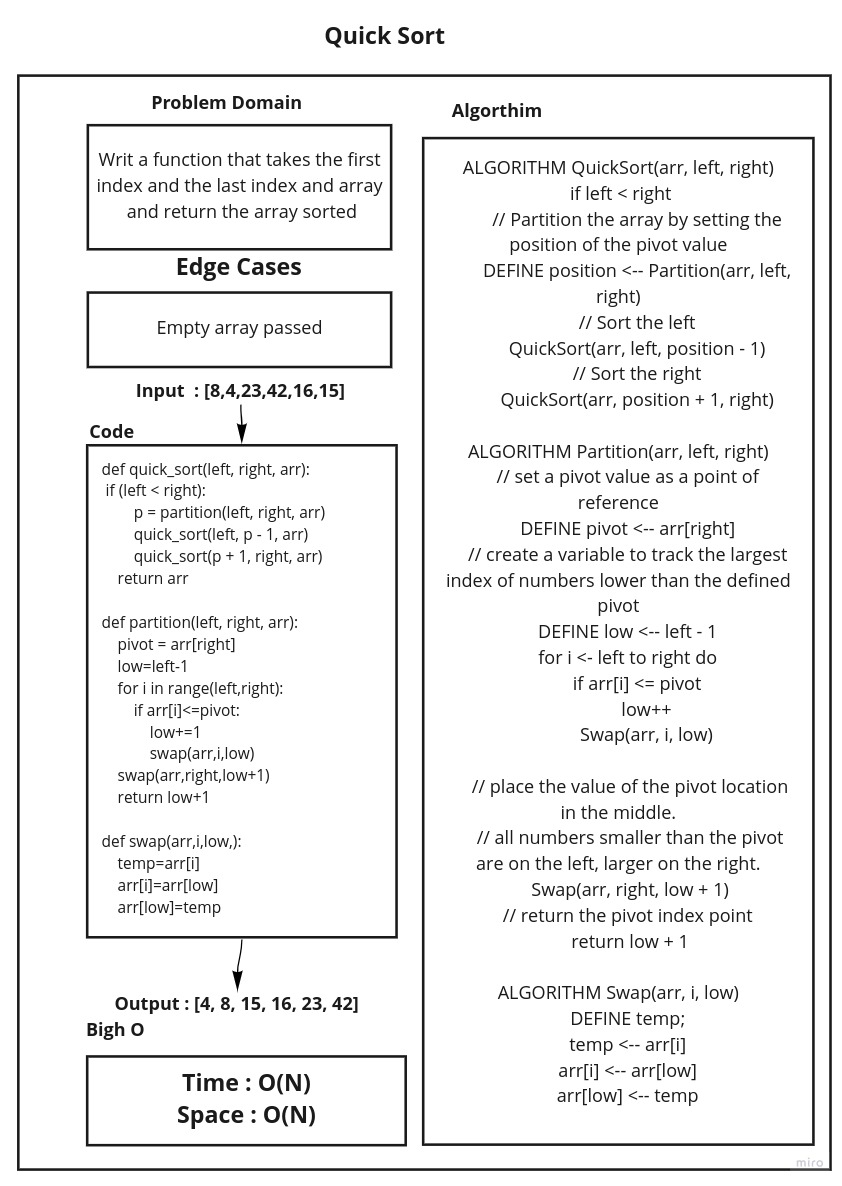
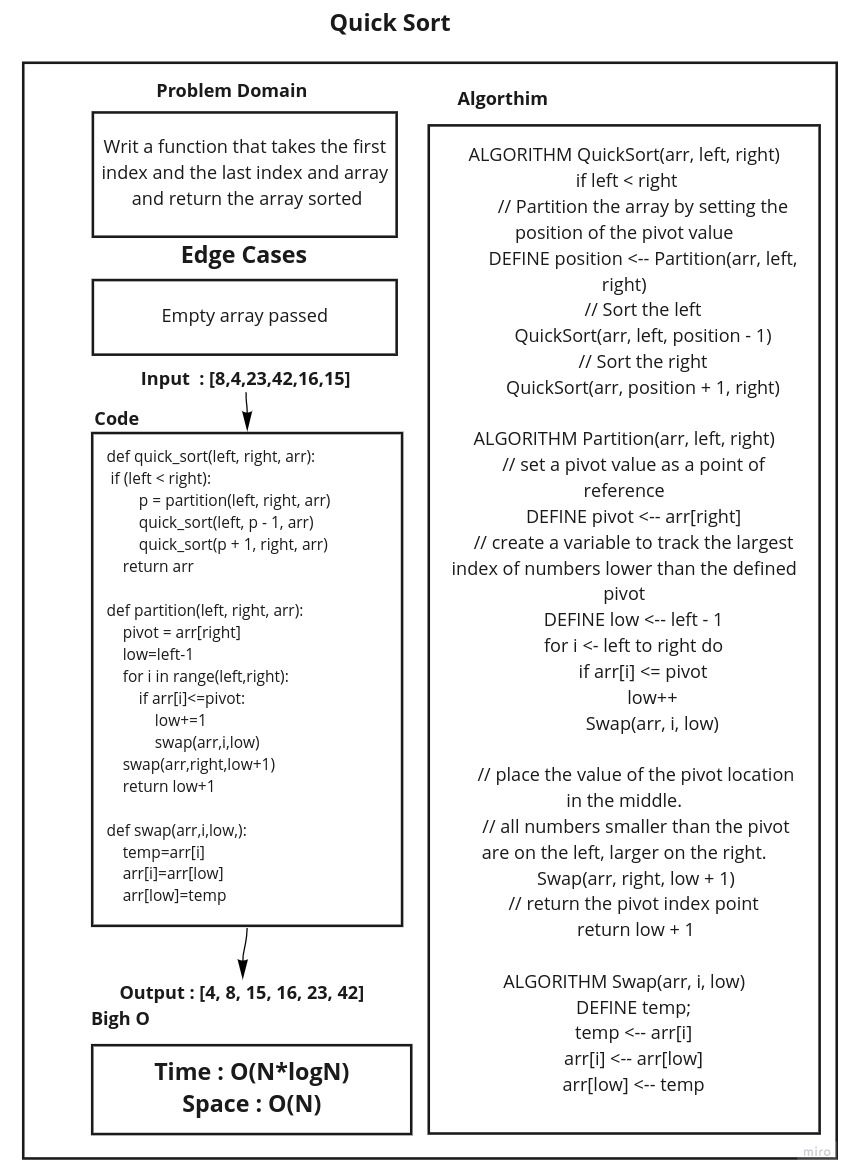
docs : readme and blog files updated

Changed region(s): [[0.0, 0.0, 0.9881, 1.0]]

diff --git a/python/quick_sort/quick_sort.py b/python/quick_sort/quick_sort.py
@@ -1,4 +1,5 @@
 def quick_sort(left, right, arr):
+
     if (left < right):
         p = partition(left, right, arr)
         quick_sort(left, p - 1, arr)
@@ -18,4 +19,6 @@ def swap(arr,i,low,):
     temp=arr[i]
     arr[i]=arr[low]
     arr[low]=temp
+
+
 

diff --git a/python/quick_sort/README.md b/python/quick_sort/README.md
@@ -1,36 +1,40 @@
-# Merge Sort
+# Quick Sort
 
 <!-- Description of the challenge -->
 
-
+a function that takes the first index and the last index and array  and return the array sorted
 
 ## Approach & Efficiency
 
 <!-- What approach did you take? Discuss Why. What is the Big O space/time for this approach? -->
 
-Time :
-Space :
+Time : O(N*log(N))
+Space : O(N)
 
 
 ## Blog : [Link](BLOG.md)
 
 ## Implementation
 
-* [] Provide a visual step through for each of the sample arrays based on the provided pseudo code
-* [] Convert the pseudo-code into working code in your language
-* [] Present a complete set of working tests
+* [x] Provide a visual step through for each of the sample arrays based on the provided pseudo code
+* [x] Convert the pseudo-code into working code in your language
+* [x] Present a complete set of working tests
 
 ## Requirements
 
-* [] Write unit tests
+* [x] Write unit tests
 
 ## Test Requirements
 
-* [] Test The method by these samples:
-    - [] Reverse-sorted: [20, 18, 12, 8, 5, -2]
-    - [] Few uniques: [5, 12, 7, 5, 5, 7]
-    - [] Nearly-sorted: [2, 3, 5, 7, 13, 11]
+* [x] Test The method by these samples:
+    - [x] Reverse-sorted: [20, 18, 12, 8, 5, -2]
+    - [x] Few uniques: [5, 12, 7, 5, 5, 7]
+    - [x] Nearly-sorted: [2, 3, 5, 7, 13, 11]
 # White Board
 
 ![Quick_Sort](/python/quick_sort/quick_sort.jpg)
+
+## Collaboration
+
+I collabrated with **Faisal Kushha** in Miro and code translating
 

diff --git a/python/quick_sort/BLOG.md b/python/quick_sort/BLOG.md
@@ -1,4 +1,4 @@
-![Quick_Sort](tracing.png)
+![Quick_Sort](tracing.jpg)
 
 
 ## Back to README File [Link](README.md)
